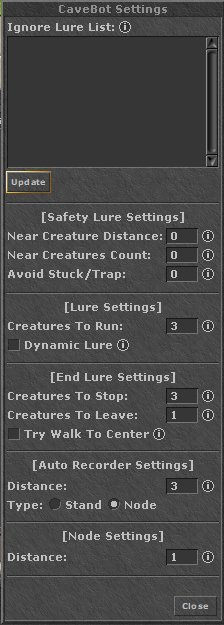
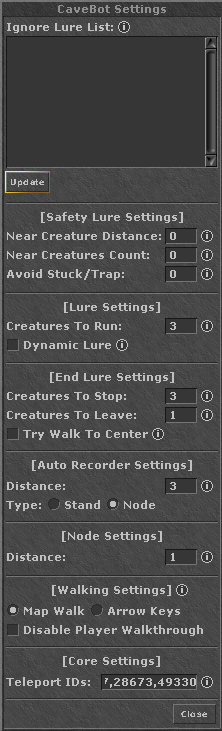
Updated CaveBot docs

Changed region(s): [[0.0, 0.0, 1.0, 1.0], [0.7568, 0.2128, 0.7838, 0.2432], [0.3243, 0.2128, 0.3514, 0.2432]]

diff --git a/i18n/pt/docusaurus-plugin-content-docs/current/cavebot/interface/cavebot_settings.md b/i18n/pt/docusaurus-plugin-content-docs/current/cavebot/interface/cavebot_settings.md
@@ -17,7 +17,7 @@ sidebar_position: 5
 
 ## Configurações Avançadas do CaveBot
 <div class="text--center">
-  <img src="/img/cavebot_settings_window_2.png?v=2" />
+  <img src="/img/cavebot_settings_window_2.png?v=3" />
   <p>Configurações Avançadas do CaveBot</p>
 </div>
 
@@ -52,3 +52,10 @@ No campo de texto mostrado na imagem acima, por favor insira os nomes dos monstr
 
 ## Configurações de Node
 **Distância**: A distância entre o jogador e o waypoint 'nó' que o CaveBot considerará como alcançado.
+
+## Configurações de Movimentação
+**Map Walk**: Se habilitado, o bot irá usar click map para caminhar.
+
+**Arrow Keys**: Se habilitado, o bot irá usar o método das setas do teclado para caminhar.
+
+**Disable Player Walkthrough**: Se habilitado, o bot não permitirá que o jogador caminhe através de outros jogadores. (útil para servidores que informam o cliente que é possível andar em cima de jogador X, mas acaba não sendo).

diff --git a/i18n/pt/docusaurus-plugin-content-docs/current/cavebot/interface/waypoint_types.md b/i18n/pt/docusaurus-plugin-content-docs/current/cavebot/interface/waypoint_types.md
@@ -35,3 +35,13 @@ sidebar_position: 1
 **Goto** -> pula para algum waypoint pelo seu nome (lembra do Label? É por isso). **Para editar o waypoint, basta dar um duplo clique nele**
 
 **Script** -> executa um script ao ativar esse tipo de waypoint. **Para editar o waypoint, basta dar um duplo clique nele**
+
+**Door** -> abre ou fecha uma porta na posição do waypoint
+
+**Sell Loot** -> vende o loot próximo da posição do waypoint. Para configurar os itens que forem vendidos, clique no botão \"Settings\" da janela CaveBot Options e configure a lista Sell List (leia a dica ao lado dela)
+
+**Hur Up** -> usa a magia exani hur "up" na posição do waypoint
+
+**Hur Down** -> usa a magia exani hur "down" na posição do waypoint
+
+**Refill** -> "refila" na posição do waypoint. Para configurar os itens que serão comprados, clique no botão \"Settings\" da janela CaveBot Options e configure a lista Refill List (leia a dica ao lado dela)

diff --git a/docs/cavebot/interface/waypoint_types.md b/docs/cavebot/interface/waypoint_types.md
@@ -34,3 +34,13 @@ sidebar_position: 1
 **Goto** -> jumps to some waypoint by its name (remember the Label? That’s why). **To edit the waypoint, just double-click on it**
 
 **Script** -> executes script upon activating this type of waypoint. **To edit the waypoint, just double-click on it**
+
+**Door** -> opens or closes a door at the waypoint's position
+
+**Sell Loot** -> sells the loot near the waypoint's position. To configure the items that will be sold, click on the \"Settings\" button in the CaveBot Options window and configure the Sell List (read the tip next to it)
+
+**Hur Up** -> uses the exani hur "up" spell at the waypoint's position
+
+**Hur Down** -> uses the exani hur "down" spell at the waypoint's position
+
+**Refill** -> "refills" at the waypoint's position. To configure the items that will be bought, click on the \"Settings\" button in the CaveBot Options window and configure the Refill List (read the tip next to it)

diff --git a/docs/cavebot/interface/cavebot_settings.md b/docs/cavebot/interface/cavebot_settings.md
@@ -17,7 +17,7 @@ sidebar_position: 5
 
 ## CaveBot Settings - Advanced
 <div class="text--center">
-  <img src="/img/cavebot_settings_window_2.png?v=2" />
+  <img src="/img/cavebot_settings_window_2.png?v=3" />
   <p>CaveBot Advanced Settings</p>
 </div>
 
@@ -52,3 +52,10 @@ In the text field shown in the image above, please enter the names of monsters t
 
 ## Node Settings
 **Distance**: The distance between the player and the 'node' waypoint that CaveBot will consider as reached.
+
+## Walking Settings
+**Map Walk**: If enabled, the bot will use click map to walk.
+
+**Arrow Keys**: If enabled, the bot will use the keyboard arrow keys method to walk.
+
+**Disable Player Walkthrough**: If enabled, the bot will not allow the player to walk through other players. (useful for servers that inform the client that it is possible to walk on top of player X, but it ends up not being).

diff --git a/i18n/pt/docusaurus-plugin-content-docs/current/general.md b/i18n/pt/docusaurus-plugin-content-docs/current/general.md
@@ -91,7 +91,7 @@ Esse sistema pode ser ativado/desativado com uma hotkey.
 A interface do **CaveBot** facilita a adição e gerenciamento de waypoints, suportando várias ações, como usar cordas ou escadas.
 
 Possui recursos como:
-- **Auto Recorder:** Grava waypoints automaticamente.
+- **Auto Recorder:** Grava waypoints automaticamente, depois da versão 1.7.6.4+ ele gravará mais tipos de waypoints, sendo mais inteligente.
 - **Debug HUD:** Monitora o funcionamento do CaveBot.
 
 O CaveBot também pode ser ativado/desativado conforme necessário.

diff --git a/docs/general.md b/docs/general.md
@@ -91,7 +91,7 @@ This system can be activated/deactivated with a hotkey.
 The **CaveBot** interface simplifies the addition and management of waypoints, supporting various actions such as using ropes or ladders.
 
 Key features include:
-- **Auto Recorder:** Automatically records waypoints.
+- **Auto Recorder:** Automatically records waypoints, after version 1.7.6.4+ it will record more types of waypoints, being smarter.
 - **Debug HUD:** Monitors the CaveBot’s operation.
 
 The CaveBot can also be activated/deactivated as needed.
